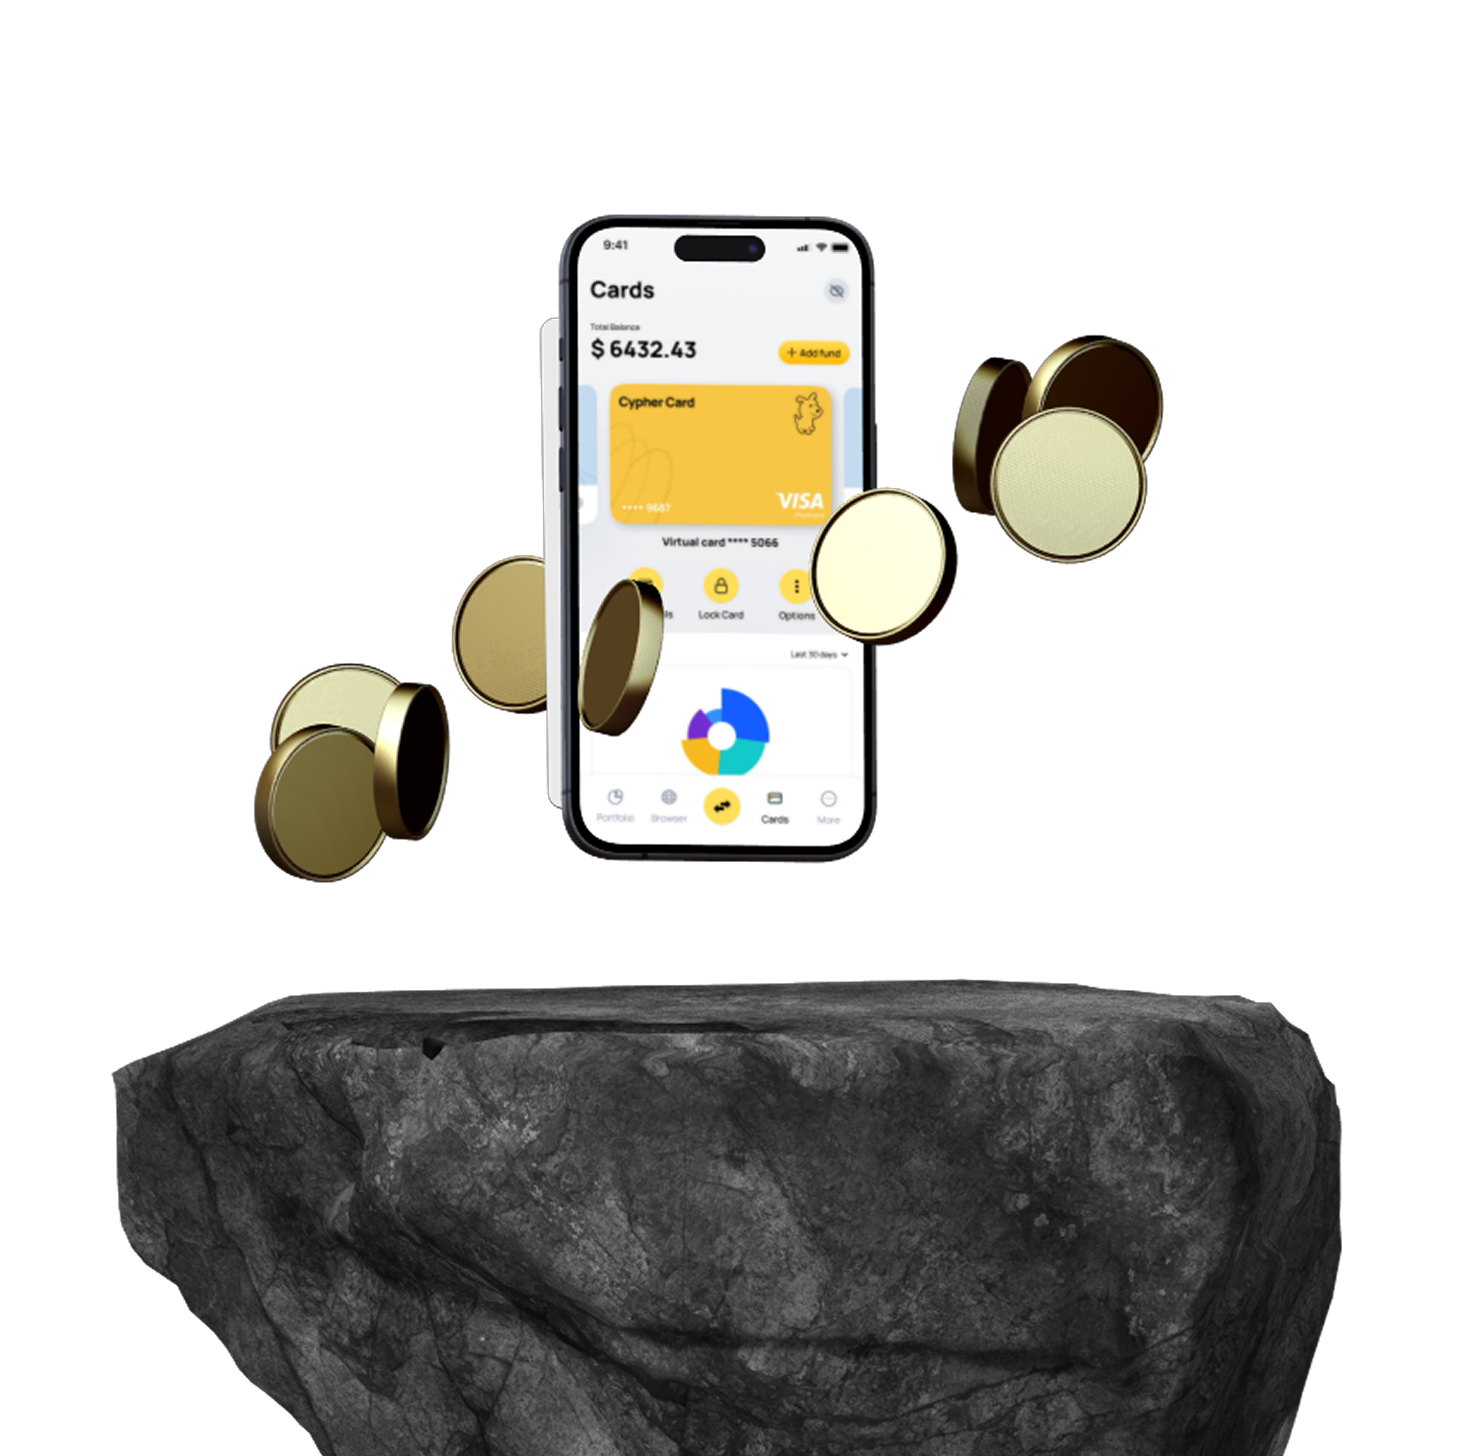
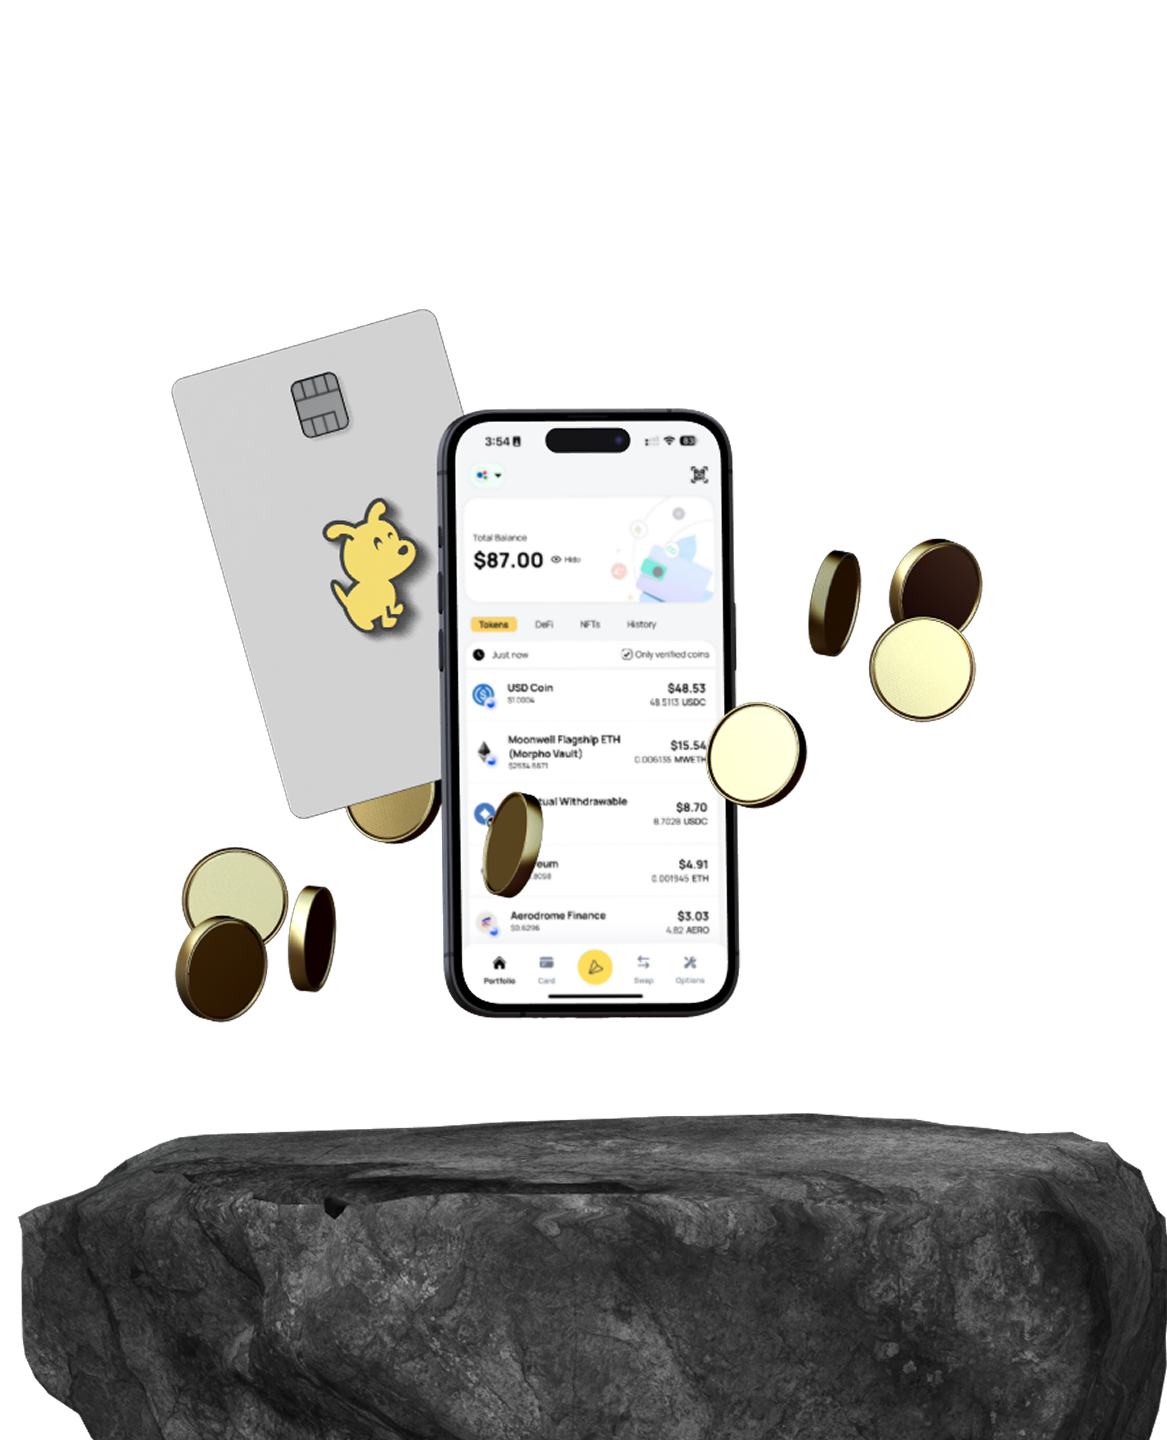
change the image and text

diff --git a/src/containers/OnBoarding/getStarted.tsx b/src/containers/OnBoarding/getStarted.tsx
@@ -13,47 +13,6 @@ import {
 } from '@react-navigation/native';
 import { useSafeAreaInsets } from 'react-native-safe-area-context';
 import { screenTitle } from '../../constants';
-import clsx from 'clsx';
-
-function Section1({ handleContinue }: { handleContinue: () => void }) {
-  const inset = useSafeAreaInsets();
-
-  return (
-    <CyDView
-      className={clsx('flex-1 bg-[#FFBF15] pb-[40px]')}
-      style={{
-        paddingTop: inset.top,
-      }}>
-      <CyDView className=' flex-1 ml-[24px]'>
-        <CyDText className='text-[22px] font-bold text-black mt-[24px]'>
-          {'Cypher'}
-        </CyDText>
-        <CyDView className='flex-1 justify-center'>
-          <CyDText className='text-[44px] font-medium text-goldText'>
-            {'Get Ready to'}
-          </CyDText>
-          <CyDText className='text-white leading-[120%] text-[44px] font-medium'>
-            {'Supercharge your'}
-          </CyDText>
-          <CyDText className='text-goldText leading-[120%] text-[44px] font-medium'>
-            {'Crypto Spending'}
-          </CyDText>
-          <CyDText className='text-goldText leading-[120%] text-[44px] font-medium'>
-            {'journey'}
-          </CyDText>
-        </CyDView>
-      </CyDView>
-
-      <CyDTouchView
-        className='bg-white mx-[16px] py-[14px] rounded-[30px]'
-        onPress={handleContinue}>
-        <CyDText className='text-[20px] font-bold text-center text-black'>
-          {'Continue'}
-        </CyDText>
-      </CyDTouchView>
-    </CyDView>
-  );
-}
 
 function Section2({ handleContinue }: { handleContinue: () => void }) {
   const inset = useSafeAreaInsets();
@@ -70,7 +29,7 @@ function Section2({ handleContinue }: { handleContinue: () => void }) {
             </CyDText>
             <CyDText className='text-[18px] font-medium text-white mt-[12px]'>
               {
-                'You can support over 16+ chains and more than 1000+ tokens! Keep an eye on DeFi, NFTs, and easily send or receive from any wallet.'
+                'Access 20+ chains, manage 1000+ tokens, and send, receive, or swap assets seamlessly.'
               }
             </CyDText>
           </CyDView>
@@ -98,11 +57,11 @@ function Section3({ handleContinue }: { handleContinue: () => void }) {
         <CyDView className=' flex-1 justify-between'>
           <CyDView className='px-[24px]'>
             <CyDText className='text-[32px] font-bold text-white mt-[38px] font-nord'>
-              {'VISA Powered \nCrypto card '}
+              {'Zero-Fee Crypto Card'}
             </CyDText>
             <CyDText className='text-[18px] font-medium text-white mt-[20px]'>
               {
-                'Use your crypto at over 60 million places worldwide without worrying about currency conversion!'
+                'Make crypto your everyday currency with Cypher . Instantly top up from any wallet using 1,000+ tokens across 25+ chains. Spend globally!'
               }
             </CyDText>
           </CyDView>
@@ -124,7 +83,7 @@ const OnBoardingGetStarted = () => {
   const [currentIndex, setCurrentIndex] = useState(0);
 
   const handleContinue = () => {
-    if (currentIndex < 2) {
+    if (currentIndex < 1) {
       setCurrentIndex(currentIndex + 1);
     } else {
       // Navigate to the next screen or handle completion
@@ -134,9 +93,8 @@ const OnBoardingGetStarted = () => {
 
   return (
     <>
-      {currentIndex === 0 && <Section1 handleContinue={handleContinue} />}
-      {currentIndex === 1 && <Section2 handleContinue={handleContinue} />}
-      {currentIndex === 2 && <Section3 handleContinue={handleContinue} />}
+      {currentIndex === 0 && <Section2 handleContinue={handleContinue} />}
+      {currentIndex === 1 && <Section3 handleContinue={handleContinue} />}
     </>
   );
 };
